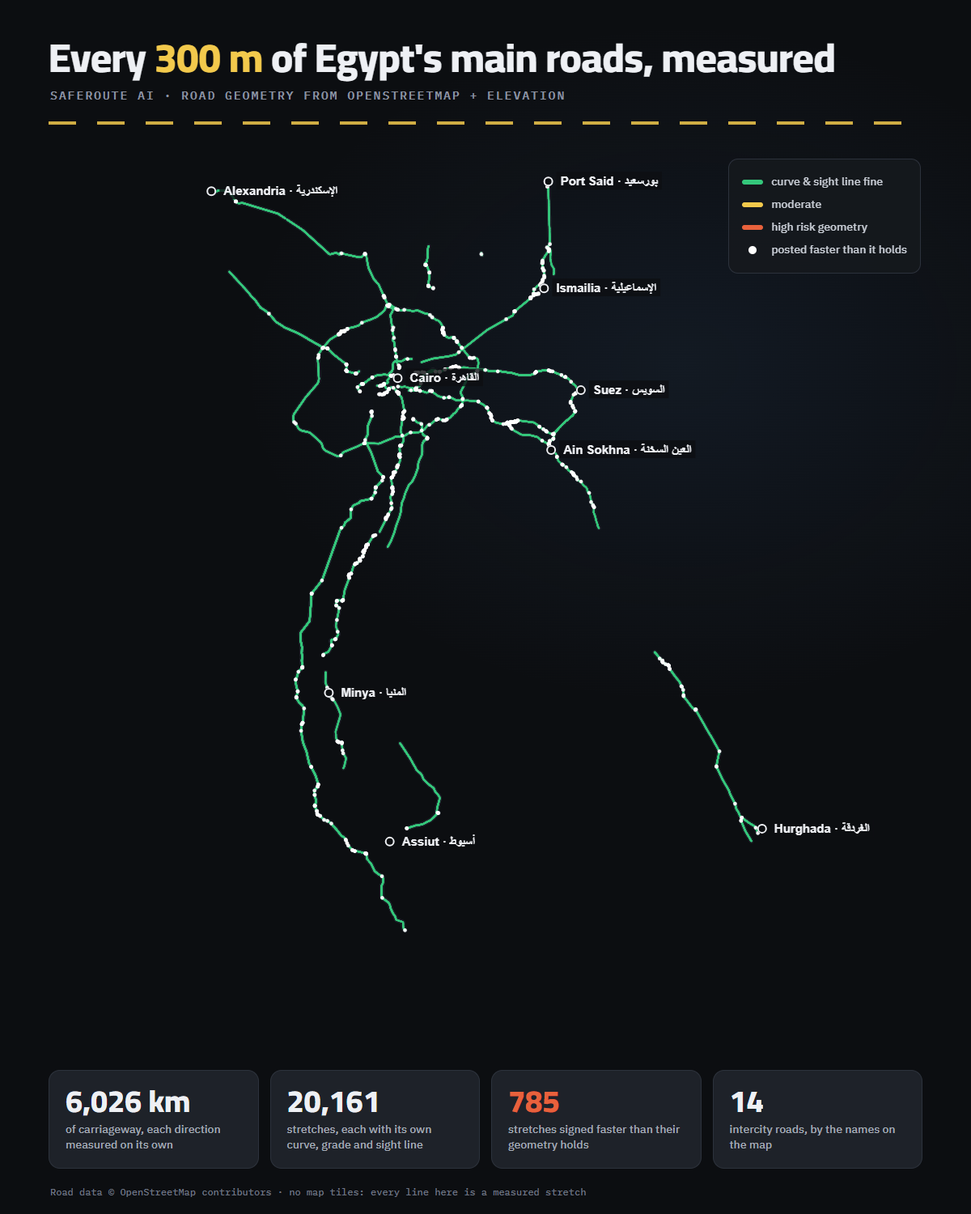
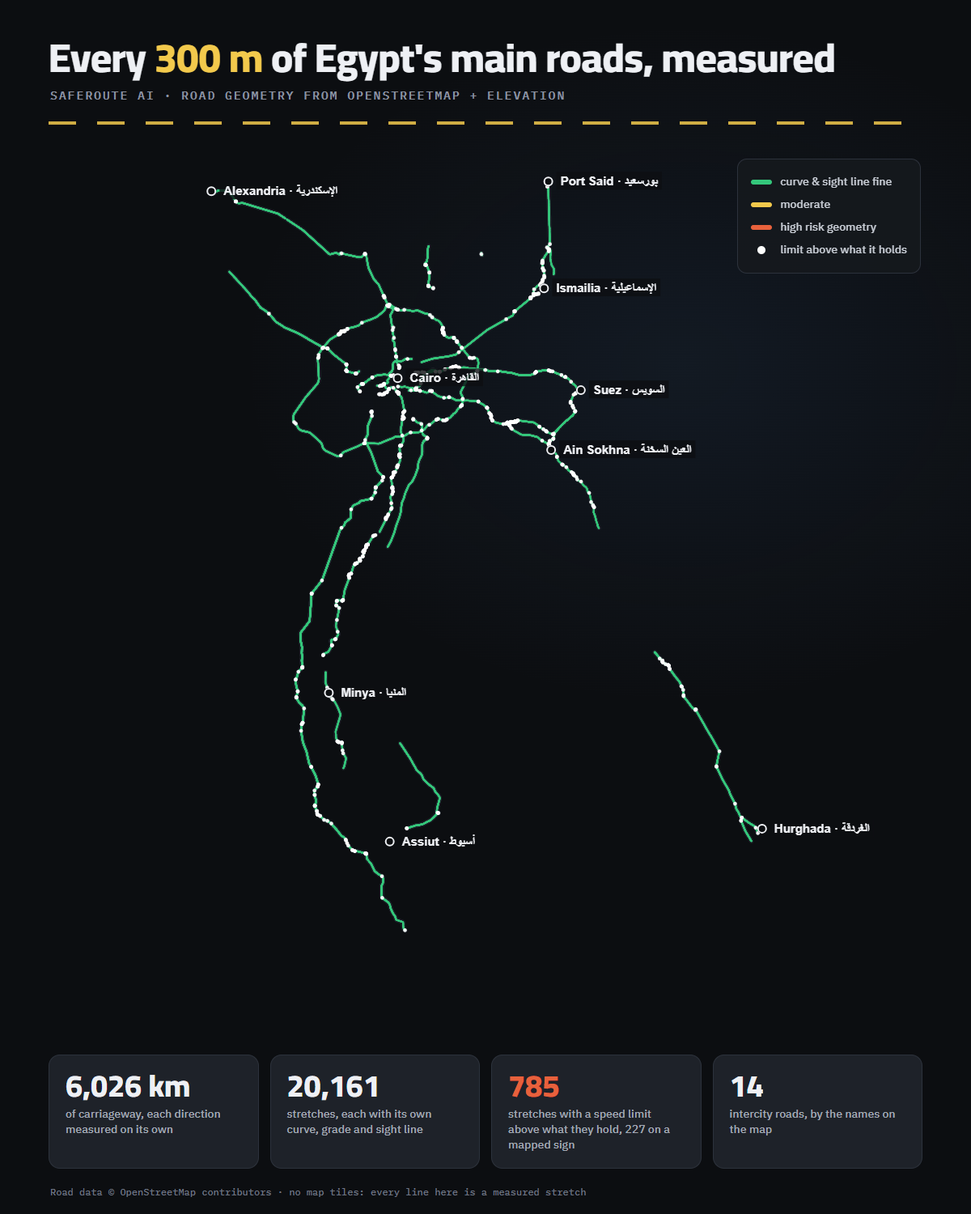
SafeRoute: say which of the 785 over-limit stretches are on a real sign
227 compare against a speed limit mapped in OpenStreetMap, the other 558
against the usual limit for the road class. English and Arabic.

diff --git a/index.html b/index.html
@@ -320,7 +320,7 @@ footer{padding-block:28px 44px;font-size:13px;color:var(--ink-3);display:flex;ju
       <div class="metric" role="listitem"><div class="n">43–72<small>ms</small></div><div class="l">per frame for real-time crowd analytics, down from 95–232 ms</div><div class="src">measured · RTX 3050 laptop</div></div>
       <div class="metric" role="listitem"><div class="n">28</div><div class="l">defects found and fixed in a line-by-line audit of my own v1</div><div class="src">each one reproduced</div></div>
       <div class="metric" role="listitem"><div class="n">191k</div><div class="l">real fatal-crash records used to train a road-risk Transformer</div><div class="src">NHTSA FARS</div></div>
-      <div class="metric" role="listitem"><div class="n">254</div><div class="l">automated tests behind a 141-route production API</div><div class="src">43 PostgreSQL tables</div></div>
+      <div class="metric" role="listitem"><div class="n">424</div><div class="l">automated tests behind a 141-route production API</div><div class="src">43 PostgreSQL tables</div></div>
     </div>
 
     <!-- WORK INDEX -->
@@ -332,7 +332,7 @@ footer{padding-block:28px 44px;font-size:13px;color:var(--ink-3);display:flex;ju
       <div class="index">
         <a class="tile wide" href="#ops">
           <div class="thumb"><img src="img/ops-site-cost.png" alt="" loading="lazy"></div>
-          <div class="body"><span class="eyebrow">Flagship · full-stack · in daily use</span><h3>Piling Operations Platform</h3><p>An operations system for a piling contractor: site records, estimating, planning, HR and finance. 141 API routes, 43 tables, 254 tests, Arabic RTL.</p><span class="meta">FastAPI · PostgreSQL</span></div>
+          <div class="body"><span class="eyebrow">Flagship · full-stack · in daily use</span><h3>MGICO ERP System</h3><p>A real ERP that MGICO, a piling contractor, commissioned from me and now runs its daily work on: site records, estimating, planning, HR and finance. 141 API routes, 43 tables, 424 tests, Arabic RTL.</p><span class="meta">FastAPI · PostgreSQL</span></div>
         </a>
         <a class="tile wide" href="#saferoute">
           <div class="thumb"><img src="img/saferoute-home.png" alt="" loading="lazy"></div>
@@ -358,13 +358,13 @@ footer{padding-block:28px 44px;font-size:13px;color:var(--ink-3);display:flex;ju
       <div class="case-head">
         <div>
           <div class="chips"><span class="chip">Full-stack · construction</span><span class="chip amber">Client work · in daily use</span></div>
-          <h3>Piling Operations Platform</h3>
-          <p class="summary">An internal operations system I built end to end for a piling and foundations contractor. It covers site records, cost estimation, production planning, HR and a full audit trail, behind an Arabic right-to-left interface built for use on site.</p>
+          <h3>MGICO ERP System</h3>
+          <p class="summary">A real client project, not a personal one. MGICO, a piling and foundations contracting company, commissioned its internal ERP from me. I designed, built and delivered it end to end, and the company runs its daily operations on it: site records, cost estimation, production planning, HR and a full audit trail, behind an Arabic right-to-left interface built for use on site.</p>
         </div>
         <dl class="spec">
           <dt>Role</dt><dd>Sole engineer: schema, API, UI, tests</dd>
           <dt>Stack</dt><dd>FastAPI, PostgreSQL, Python, pytest, RTL web UI</dd>
-          <dt>Code</dt><dd>Private. Screenshots use test data, with project names blurred.</dd>
+          <dt>Code</dt><dd>Private: the code belongs to MGICO. Figures in the screenshots are blurred. <a href="https://github.com/YoussefKabbary/mgico-showcase" target="_blank" rel="noopener">Overview ↗</a></dd>
         </dl>
       </div>
 
@@ -396,9 +396,41 @@ footer{padding-block:28px 44px;font-size:13px;color:var(--ink-3);display:flex;ju
               <tr><th>API routes</th><td>141</td></tr>
               <tr><th>PostgreSQL tables</th><td>43</td></tr>
               <tr><th>Schema migrations</th><td>28</td></tr>
-              <tr><th>Automated tests</th><td>254</td></tr>
+              <tr><th>Automated tests</th><td>424</td></tr>
             </table>
           </div>
+        </div>
+      </div>
+    </article>
+
+    <!-- RTL ADMIN STARTER -->
+    <article class="case" id="rtl-starter">
+      <div class="case-head">
+        <div>
+          <div class="chips"><span class="chip">Open source · template</span></div>
+          <h3>rtl-admin-starter</h3>
+          <p class="summary">A small open-source starter for Arabic, right-to-left admin dashboards on FastAPI. It collects the patterns from the MGICO work into public code, written from scratch with demo data. It is a separate project and shares no code or data with the MGICO ERP.</p>
+        </div>
+        <dl class="spec">
+          <dt>Role</dt><dd>Author</dd>
+          <dt>Stack</dt><dd>FastAPI, SQLite, vanilla JS, CSS, pytest</dd>
+          <dt>Code</dt><dd><a href="https://github.com/YoussefKabbary/rtl-admin-starter" target="_blank" rel="noopener">github.com/YoussefKabbary/rtl-admin-starter ↗</a></dd>
+        </dl>
+      </div>
+
+      <div class="gallery two">
+        <figure><button type="button" data-full="img/rtl-desktop.png" data-cap="Desktop: server-side search and pagination over an inventory table, right-to-left from the root."><img src="img/rtl-desktop.png" alt="Inventory table on desktop, Arabic right-to-left" loading="lazy"></button><figcaption>Desktop: search and pagination</figcaption></figure>
+        <figure><button type="button" data-full="img/rtl-mobile.png" data-cap="Phone: the same markup rendered as labelled cards by CSS alone."><img src="img/rtl-mobile.png" alt="The same table on a phone, shown as cards" loading="lazy"></button><figcaption>Phone: the table becomes cards</figcaption></figure>
+      </div>
+
+      <div class="case-body">
+        <div>
+          <h4>What is inside</h4>
+          <ul class="points">
+            <li><b>RTL at the root:</b> dir on the html element, logical CSS properties, and bidi isolation for Latin text inside Arabic.</li>
+            <li><b>Closed by default:</b> one gate authenticates every route, and a test calls every route without a token and expects 401.</li>
+            <li><b>Readable outdoors:</b> light, dark and a high-contrast sun mode with large touch targets.</li>
+          </ul>
         </div>
       </div>
     </article>
@@ -421,7 +453,7 @@ footer{padding-block:28px 44px;font-size:13px;color:var(--ink-3);display:flex;ju
       <button class="shot" type="button" data-full="img/saferoute-home.png" data-cap="SafeRoute AI dashboard: English/Arabic, one HTML file served by the API, with live model status."><img src="img/saferoute-home.png" alt="SafeRoute AI dashboard with road inspection form and model status" loading="lazy"></button>
       <div class="gallery">
         <figure><button type="button" data-full="img/saferoute-drive.gif" data-cap="In the car: a spoken warning counts down to a 196 m curve on the Regional Ring Road, with the measured road ahead drawn on the phone. No map tiles, so it works with no signal."><img src="img/saferoute-drive.gif" alt="Drive screen: a warning counting down before a curve, with the road ahead drawn below" loading="lazy"></button><figcaption>Spoken warning + road-ahead view, offline</figcaption></figure>
-        <figure><button type="button" data-full="img/saferoute-egypt.png" data-cap="Egypt's main roads measured every 300 m: 14 intercity roads, 6,026 km of carriageway, 20,161 stretches. White dots: the 785 stretches signed faster than their geometry holds."><img src="img/saferoute-egypt.png" alt="Map of Egypt's measured roads coloured by risk" loading="lazy"></button><figcaption>6,026 km of Egyptian roads, measured</figcaption></figure>
+        <figure><button type="button" data-full="img/saferoute-egypt.png" data-cap="Egypt's main roads measured every 300 m: 14 intercity roads, 6,026 km of carriageway, 20,161 stretches. White dots: the 785 stretches whose speed limit is above what their geometry holds, 227 of them on a mapped sign."><img src="img/saferoute-egypt.png" alt="Map of Egypt's measured roads coloured by risk" loading="lazy"></button><figcaption>6,026 km of Egyptian roads, measured</figcaption></figure>
         <figure><button type="button" data-full="img/saferoute-system.png" data-cap="System diagram: open data in, every road cut into 300 m stretches and measured, and who each output is for."><img src="img/saferoute-system.png" alt="SafeRoute AI system diagram" loading="lazy"></button><figcaption>How it fits together</figcaption></figure>
         <figure><button type="button" data-full="img/road-measured.png" data-cap="Road geometry measured from OpenStreetMap and SRTM elevation: curve radius, grade, sight distance, with a confidence value."><img src="img/road-measured.png" alt="Measured road geometry panel" loading="lazy"></button><figcaption>Geometry measured from OpenStreetMap + SRTM</figcaption></figure>
         <figure><button type="button" data-full="img/analysis-result.png" data-cap="Analysis result: names every model that ran and every one that didn't, with Sentinel-2 imagery of the same road a year apart."><img src="img/analysis-result.png" alt="Analysis result with model breakdown and Sentinel-2 crops" loading="lazy"></button><figcaption>Result names which models actually ran</figcaption></figure>
@@ -436,7 +468,7 @@ footer{padding-block:28px 44px;font-size:13px;color:var(--ink-3);display:flex;ju
             <li><b>Site reports for road authorities:</b> an A4 report in Arabic with English alongside. Treatments come from published crash modification factors (FHWA, AASHTO HSM), costed in EGP ranges and staged from "this week" to "budgeted works".</li>
             <li><b>Safer routing:</b> a driving graph built from OpenStreetMap and scored in risk-kilometres over 300 m segments, which trades travel time against exposure to dangerous road.</li>
             <li><b>Driver warnings designed against alarm fatigue:</b> the app stays silent unless the warning changes what the driver should do. When it speaks, it is 250 m before the curve, counting down, with the measured road ahead drawn on the phone from an offline pack, no map tiles.</li>
-            <li><b>Egypt's main roads, measured:</b> 14 intercity roads found by the names on the map, 6,026 km of carriageway cut into 20,161 stretches. 785 of them are signed faster than their own geometry holds.</li>
+            <li><b>Egypt's main roads, measured:</b> 14 intercity roads found by the names on the map, 6,026 km of carriageway cut into 20,161 stretches. 785 of them have a speed limit above what their geometry holds; 227 of those limits are on a mapped sign.</li>
             <li><b>Audited before launch:</b> 61 checks run against the live server, not the code alone. Fixed a hardcoded default password, a forged-header bypass of the rate limits and unsandboxed uploads; added an audit trail of admin actions. 616 automated tests.</li>
             <li><b>No fake confidence:</b> a model that can't run contributes nothing rather than a placeholder 0.5, and every response lists the models that ran.</li>
           </ul>
@@ -448,7 +480,7 @@ footer{padding-block:28px 44px;font-size:13px;color:var(--ink-3);display:flex;ju
               <tr><th>Crash predictor, 47 held-out locations</th><td>AUC 0.628<small>logistic regression 0.606 · gradient boosting 0.624</small></td></tr>
               <tr><th>Cairo Ring Road segmentation</th><td>635 segments in ~11 s<small>381 OSM ways · 189 km</small></td></tr>
               <tr><th>Safer vs fastest route, Ring Road</th><td>6.61 vs 7.21 risk-km<small>25.0 vs 26.2 km · +24 s travel time</small></td></tr>
-              <tr><th>Egypt's main roads measured</th><td>6,026 km · 20,161 stretches<small>785 signed faster than their geometry holds</small></td></tr>
+              <tr><th>Egypt's main roads measured</th><td>6,026 km · 20,161 stretches<small>785 with a limit above what they hold · 227 on a mapped sign</small></td></tr>
               <tr><th>Sites above action threshold</th><td>22 sites<small>signs + limit fixes for all: EGP 434k–1,074k</small></td></tr>
             </table>
           </div>
@@ -783,8 +815,8 @@ footer{padding-block:28px 44px;font-size:13px;color:var(--ink-3);display:flex;ju
 ["Selected work","أبرز الأعمال"],["Five systems, end to end","خمسة أنظمة، من الفكرة حتى التشغيل"],
 ["Computer vision, geospatial ML, production backends and embedded hardware. Every figure names what it was measured on.","رؤية حاسوبية، وتعلّم آلي على بيانات جغرافية، وأنظمة Backend إنتاجية، وعتاد مدمج. كل رقم مذكور معه ما قيس عليه."],
 ["Flagship · full-stack · in daily use","المشروع الرئيسي · Full-stack · مستخدم يومياً"],
-["Piling Operations Platform","منصة تشغيل شركة خوازيق"],
-["An operations system for a piling contractor: site records, estimating, planning, HR and finance. 141 API routes, 43 tables, 254 tests, Arabic RTL.","نظام تشغيل لشركة مقاولات خوازيق: سجلات المواقع، والتسعير، والتخطيط، والموارد البشرية، والمالية. 141 مسار API، و43 جدولاً، و254 اختباراً، بواجهة عربية."],
+["MGICO ERP System","نظام ERP لشركة MGICO"],
+
 ["Road safety AI","ذكاء اصطناعي للسلامة على الطرق"],
 ["Scores road danger from four independent signals and turns it into action for authorities, routing and drivers.","يقيّم خطورة الطرق من أربع إشارات مستقلة ويحوّلها إلى إجراءات لجهات الطرق والتوجيه والسائقين."],
 ["Real-time computer vision","رؤية حاسوبية لحظية"],
@@ -793,8 +825,20 @@ footer{padding-block:28px 44px;font-size:13px;color:var(--ink-3);display:flex;ju
 ["Arduino firmware and two desktop apps over USB and Bluetooth.","برنامج Arduino وتطبيقان لسطح المكتب عبر USB و Bluetooth."],
 ["Graduation project · Excellent","مشروع التخرج · امتياز"],
 ["Autonomous surveillance drone with on-board CNN detection.","طائرة مسيّرة ذاتية للمراقبة تكتشف الأجسام بشبكة CNN على متنها."],
+["A real ERP that MGICO, a piling contractor, commissioned from me and now runs its daily work on: site records, estimating, planning, HR and finance. 141 API routes, 43 tables, 424 tests, Arabic RTL.","نظام ERP حقيقي طلبته مني شركة MGICO للخوازيق وبتشغّل عليه شغلها اليومي: سجلات المواقع، والتسعير، والتخطيط، والموارد البشرية، والمالية. 141 مسار API، و43 جدول، و424 اختبار، وواجهة عربية."],
+["Private: the code belongs to MGICO. Figures in the screenshots are blurred. Overview ↗","خاص: الكود ملك شركة MGICO. الأرقام في الصور عليها تمويه. <a href=\"https://github.com/YoussefKabbary/mgico-showcase\" target=\"_blank\" rel=\"noopener\">نظرة عامة ↗</a>"],
+["Open source · template","مفتوح المصدر · قالب"],
+["A small open-source starter for Arabic, right-to-left admin dashboards on FastAPI. It collects the patterns from the MGICO work into public code, written from scratch with demo data. It is a separate project and shares no code or data with the MGICO ERP.","قالب مفتوح المصدر للوحات تحكم عربية من اليمين لليسار على FastAPI. بيجمع الأنماط اللي اتعلمتها في شغل MGICO في كود منشور، مكتوب من الصفر ببيانات تجريبية. مشروع منفصل، ومفيهوش أي كود أو بيانات من نظام MGICO."],
+["Author","المؤلف"],["FastAPI, SQLite, vanilla JS, CSS, pytest","FastAPI، وSQLite، وJavaScript، وCSS، وpytest"],
+["Desktop: search and pagination","الكمبيوتر: بحث وتقسيم صفحات"],["Phone: the table becomes cards","الموبايل: الجدول بيتحوّل لكروت"],
+["Desktop: server-side search and pagination over an inventory table, right-to-left from the root.","الكمبيوتر: بحث وتقسيم صفحات من السيرفر على جدول مخزن، واتجاه من اليمين لليسار من الأساس."],
+["Phone: the same markup rendered as labelled cards by CSS alone.","الموبايل: نفس الصفحة بتظهر ككروت بعناوين، بـ CSS بس."],
+["What is inside","فيه إيه"],
+["RTL at the root: dir on the html element, logical CSS properties, and bidi isolation for Latin text inside Arabic.","الاتجاه من الأساس: dir على عنصر html، وخصائص CSS منطقية، وعزل النص الإنجليزي جوه الجمل العربية."],
+["Closed by default: one gate authenticates every route, and a test calls every route without a token and expects 401.","مقفول افتراضيًا: بوابة واحدة بتتحقق من كل المسارات، واختبار بينادي كل مسار من غير تسجيل دخول ومستني 401."],
+["Readable outdoors: light, dark and a high-contrast sun mode with large touch targets.","مقروء في الشمس: وضع فاتح وغامق ووضع تباين عالي، وأزرار كبيرة للمس."],
 ["Full-stack · construction","Full-stack · مقاولات"],["Client work · in daily use","مشروع لعميل · مستخدم يومياً"],
-["An internal operations system I built end to end for a piling and foundations contractor. It covers site records, cost estimation, production planning, HR and a full audit trail, behind an Arabic right-to-left interface built for use on site.","نظام تشغيل داخلي بنيته بالكامل لشركة مقاولات خوازيق وأساسات. يغطي سجلات المواقع، وتقدير التكلفة، وتخطيط الإنتاج، والموارد البشرية، وسجل تدقيق كامل، بواجهة عربية مصممة للاستخدام في الموقع."],
+["A real client project, not a personal one. MGICO, a piling and foundations contracting company, commissioned its internal ERP from me. I designed, built and delivered it end to end, and the company runs its daily operations on it: site records, cost estimation, production planning, HR and a full audit trail, behind an Arabic right-to-left interface built for use on site.","مشروع حقيقي لعميل، مش مشروع شخصي. شركة MGICO للخوازيق والأساسات طلبت مني نظام ERP داخلي، وأنا صمّمته وبنيته وسلّمته من أوله لآخره، والشركة بتشغّل عليه شغلها اليومي: سجلات المواقع، وتسعير التكلفة، وتخطيط الإنتاج، والموارد البشرية، وسجل كامل للتغييرات، بواجهة عربية من اليمين لليسار معمولة للاستخدام في الموقع."],
 ["Role","الدور"],["Stack","التقنيات"],["Code","الكود"],["Where","المكان"],
 ["Sole engineer: schema, API, UI, tests","المهندس الوحيد: قاعدة البيانات، والـ API، والواجهة، والاختبارات"],
 ["Private. Screenshots use test data, with project names blurred.","خاص. الصور ببيانات تجريبية، مع إخفاء أسماء المشاريع."],
@@ -815,12 +859,12 @@ footer{padding-block:28px 44px;font-size:13px;color:var(--ink-3);display:flex;ju
 ["Site reports for road authorities: an A4 report in Arabic with English alongside. Treatments come from published crash modification factors (FHWA, AASHTO HSM), costed in EGP ranges and staged from \"this week\" to \"budgeted works\".","<b>تقارير مواقع لجهات الطرق:</b> تقرير A4 بالعربية ومعه الإنجليزية. الحلول مأخوذة من معاملات تعديل الحوادث المنشورة (FHWA و AASHTO HSM)، بتكلفة تقديرية بالجنيه المصري، ومرحلة من «هذا الأسبوع» حتى «أعمال بميزانية»."],
 ["Safer routing: a driving graph built from OpenStreetMap and scored in risk-kilometres over 300 m segments, which trades travel time against exposure to dangerous road.","<b>توجيه أكثر أماناً:</b> شبكة طرق من OpenStreetMap مقيّمة بـ«كيلومترات الخطر» على مقاطع 300 متر، توازن بين وقت الرحلة والتعرض للطرق الخطرة."],
 ["Driver warnings designed against alarm fatigue: the app stays silent unless the warning changes what the driver should do. When it speaks, it is 250 m before the curve, counting down, with the measured road ahead drawn on the phone from an offline pack, no map tiles.","<b>تحذيرات للسائق مصممة ضد إرهاق التنبيهات:</b> التطبيق يصمت إلا إذا كان التحذير سيغيّر ما يجب على السائق فعله. وعندما يتكلم يكون ذلك قبل المنحنى بـ 250 متراً مع عدّ تنازلي، والطريق المقاس أمامه مرسوم على الهاتف من حزمة تعمل بدون إنترنت، بلا خرائط جاهزة."],
-["Egypt's main roads, measured: 14 intercity roads found by the names on the map, 6,026 km of carriageway cut into 20,161 stretches. 785 of them are signed faster than their own geometry holds.","<b>الطرق الرئيسية في مصر، مقاسة:</b> 14 طريقاً بين المدن بأسمائها على الخريطة، و6,026 كم من الاتجاهات مقسمة إلى 20,161 مقطعاً. منها 785 مقطعاً حدّ السرعة المكتوب عليها أعلى مما تتحمله هندستها."],
+["Egypt's main roads, measured: 14 intercity roads found by the names on the map, 6,026 km of carriageway cut into 20,161 stretches. 785 of them have a speed limit above what their geometry holds; 227 of those limits are on a mapped sign.","<b>الطرق الرئيسية في مصر، مقاسة:</b> 14 طريقاً بين المدن بأسمائها على الخريطة، و6,026 كم من الاتجاهات مقسمة إلى 20,161 مقطعاً. منها 785 مقطعاً حدّ السرعة فيها أعلى مما تتحمله هندستها، و227 من هذه الحدود على لافتة مسجلة في الخريطة."],
 ["Audited before launch: 61 checks run against the live server, not the code alone. Fixed a hardcoded default password, a forged-header bypass of the rate limits and unsandboxed uploads; added an audit trail of admin actions. 616 automated tests.","<b>مراجعة قبل الإطلاق:</b> 61 فحصاً على الخادم وهو يعمل، لا على الكود وحده. أصلحت كلمة مرور افتراضية مكتوبة في الكود، وتجاوزاً لحدود الطلبات بعنوان مزيّف، ورفع ملفات غير معزول، وأضفت سجلاً لكل إجراءات المدير. 616 اختباراً آلياً."],
-["Egypt's main roads measured","الطرق الرئيسية في مصر المقاسة"],["6,026 km · 20,161 stretches 785 signed faster than their geometry holds","6,026 كم · 20,161 مقطعاً<small>785 منها حدّ سرعتها أعلى مما تتحمله هندستها</small>"],
+["Egypt's main roads measured","الطرق الرئيسية في مصر المقاسة"],["6,026 km · 20,161 stretches 785 with a limit above what they hold · 227 on a mapped sign","6,026 كم · 20,161 مقطعاً<small>785 منها حدّ سرعتها أعلى مما تتحمله هندستها · 227 على لافتة مسجلة</small>"],
 ["Spoken warning + road-ahead view, offline","تحذير صوتي + الطريق أمامك، بدون إنترنت"],["6,026 km of Egyptian roads, measured","6,026 كم من الطرق المصرية، مقاسة"],["How it fits together","كيف تترابط الأجزاء"],
 ["In the car: a spoken warning counts down to a 196 m curve on the Regional Ring Road, with the measured road ahead drawn on the phone. No map tiles, so it works with no signal.","في السيارة: تحذير صوتي بعدّ تنازلي قبل منحنى نصف قطره 196 متراً على الطريق الدائري الإقليمي، والطريق المقاس أمامك مرسوم على الهاتف. بلا خرائط جاهزة، فيعمل بدون شبكة."],
-["Egypt's main roads measured every 300 m: 14 intercity roads, 6,026 km of carriageway, 20,161 stretches. White dots: the 785 stretches signed faster than their geometry holds.","الطرق الرئيسية في مصر مقاسة كل 300 متر: 14 طريقاً، و6,026 كم من الاتجاهات، و20,161 مقطعاً. النقاط البيضاء: الـ 785 مقطعاً التي حدّ سرعتها أعلى مما تتحمله هندستها."],
+["Egypt's main roads measured every 300 m: 14 intercity roads, 6,026 km of carriageway, 20,161 stretches. White dots: the 785 stretches whose speed limit is above what their geometry holds, 227 of them on a mapped sign.","الطرق الرئيسية في مصر مقاسة كل 300 متر: 14 طريقاً، و6,026 كم من الاتجاهات، و20,161 مقطعاً. النقاط البيضاء: الـ 785 مقطعاً التي حدّ سرعتها أعلى مما تتحمله هندستها، منها 227 على لافتة مسجلة في الخريطة."],
 ["System diagram: open data in, every road cut into 300 m stretches and measured, and who each output is for.","مخطط النظام: بيانات مفتوحة تدخل، وكل طريق يُقسم إلى مقاطع 300 متر ويُقاس، ولمن تذهب كل نتيجة."],
 ["No fake confidence: a model that can't run contributes nothing rather than a placeholder 0.5, and every response lists the models that ran.","<b>بدون ثقة مزيفة:</b> النموذج الذي لا يستطيع العمل لا يساهم بشيء بدلاً من قيمة 0.5 وهمية، وكل استجابة تذكر النماذج التي عملت."],
 ["Crash predictor, 47 held-out locations","التنبؤ بالحوادث، 47 موقعاً لم يرها النموذج"],
